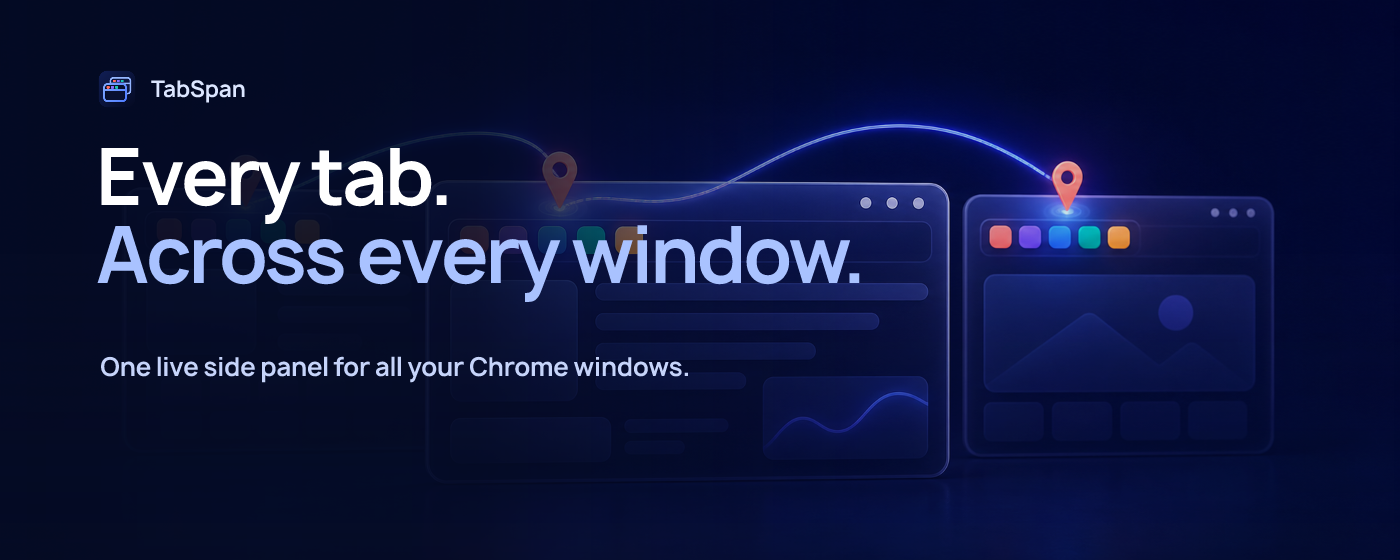
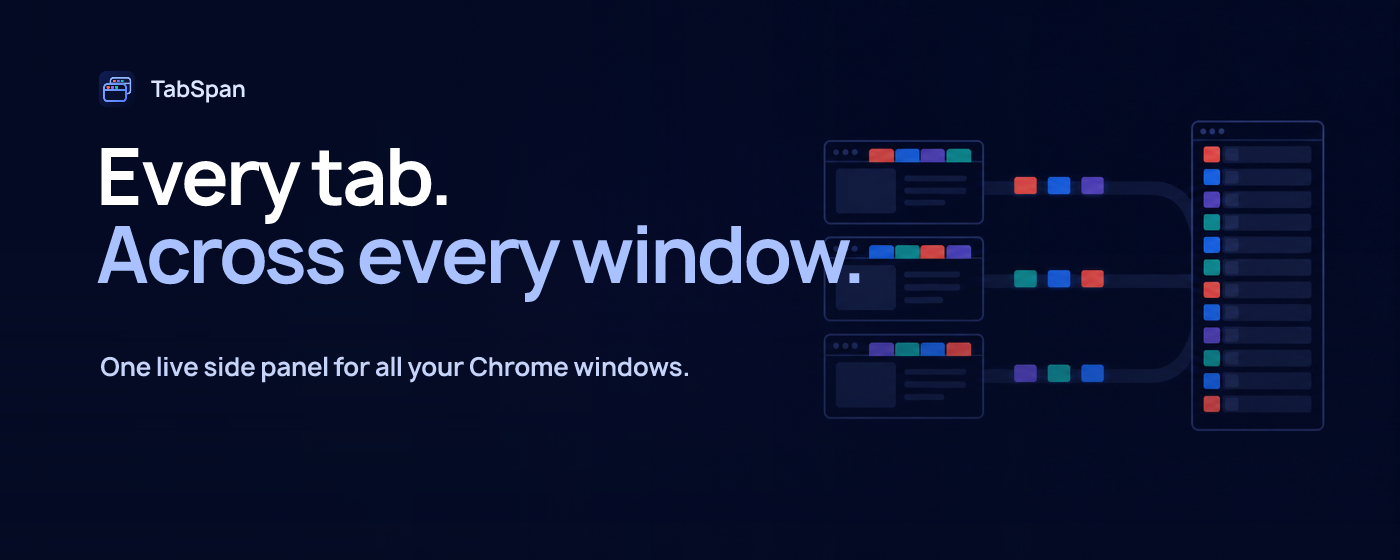
feat: refine TabSpan promotional artwork with a focused tab-flow system and dedicated marquee and small-tile compositions for clearer cross-window positioning

Changed region(s): [[0.3071, 0.1518, 0.9214, 1.0], [0.8907, 0.7589, 0.9214, 0.7893], [0.3379, 0.2125, 0.3686, 0.2429]]

diff --git a/store-listing/source/promo.html b/store-listing/source/promo.html
@@ -159,7 +159,12 @@
   </head>
   <body>
     <main class="artboard">
-      <img class="key-visual" src="../assets/source/connected-windows.png" alt="" />
+      <img
+        id="key-visual"
+        class="key-visual"
+        src="../assets/source/tab-flow-marquee-v2.png"
+        alt=""
+      />
       <div class="shade"></div>
       <section class="copy">
         <div class="brand">
@@ -174,6 +179,7 @@
       const format = new URLSearchParams(location.search).get("format");
       if (format === "small") {
         document.body.classList.add("small");
+        document.querySelector("#key-visual").src = "../assets/source/tab-flow-small.png";
       }
     </script>
   </body>

diff --git a/store-listing/ARTWORK.md b/store-listing/ARTWORK.md
@@ -4,11 +4,11 @@
 
 **Every tab. Across every window.**
 
-The visual system uses three connected browser windows to communicate one live view across a multi-window Chrome workspace. Repeated pinned-app tiles preserve the extension's distinctive synchronization capability without making it the entire product story. Deep indigo conveys focus and reliability; electric blue carries the connection across windows; coral adds a distinct focal point.
+The visual system uses orderly tab lanes to connect several browser windows with one unified side-panel view. The source windows remain visually secondary, while the side panel becomes the clear destination and communicates cross-window tab management at a glance. Deep indigo conveys focus and reliability; coral, violet, teal, and blue tab markers echo the extension icon.
 
 The redesigned icon combines two overlapping browser windows with the same coral, violet, and teal pinned tabs in each window. Repeated colors communicate that the pinned workspace stays consistent across windows without relying on a separate pin symbol. The 16 px source simplifies the window outlines and enlarges the colored tabs for Chrome's toolbar.
 
-Promotional copy uses the bundled Manrope family. The headline is deliberately limited to two lines, with more relaxed tracking and a blue second line to keep the cross-window promise readable at both Web Store sizes.
+Promotional copy uses the bundled Manrope family. The headline is deliberately limited to two lines, with more relaxed tracking and a blue second line to keep the cross-window promise readable at both Web Store sizes. The small tile uses a dedicated, simplified background rather than cropping the marquee artwork.
 
 ## Upload assets
 
@@ -46,8 +46,16 @@ The screenshots show the real extension UI with privacy-safe sample content.
 
 ## Source asset provenance
 
-The textless connected-window artwork was generated with OpenAI ImageGen for this repository. Prompt:
+The textless Tab Flow artwork was generated with OpenAI ImageGen for this repository. The marquee prompt was:
 
-> Create a premium textless key visual for a Chrome Web Store productivity extension named TabSpan. Wide advertising composition, designed to be cropped to both 1400x560 and 440x280. Show three simplified, elegant browser-window cards arranged in depth, connected as one coherent multi-window workspace. Each window may share the same small row of colorful pinned-tab dots or compact app tiles along the upper-left edge. A subtle glowing path connects the windows, communicating “every tab across every window.” Deep navy-to-indigo full-bleed background, electric blue and violet highlights, one restrained coral accent, soft glass panels, crisp modern editorial 3D/flat hybrid, premium and trustworthy, high contrast, uncluttered. Keep the important connected-window motif centered and safe within the middle 60% of the canvas. No people. No readable text. No letters. No logos. No Google or Chrome branding. No real company icons. No watermark. No fake detailed UI, just abstract browser frames and tab symbols. Avoid excessive glow, gradients that reduce contrast, tiny details, and visual clutter.
+> Deeply refine the Tab Flow direction into a premium 1400x560 Chrome Web Store marquee background. Keep three compact source browser windows stacked vertically, three orderly tab-data lanes, and one tall unified side-panel view at the far right. Reduce floating cards, use crisp and consistent geometry, and leave the left 55% completely calm for typography. Use near-black navy, deep indigo, periwinkle outlines, and restrained coral, violet, teal, and blue tab accents. Background artwork only: no text, logo, people, real browser branding, readable UI, map pins, watermark, clutter, crossing lanes, or bright objects in the copy zone.
+
+The final marquee placement refinement was:
+
+> Uniformly scale the three source windows, three connecting tab lanes, and unified right-side panel down by approximately 12%, then move the entire grouped system to the right so no visible object begins before 58% of the canvas width. Preserve the exact background, illustration style, colors, geometry, hierarchy, lane paths, shadows, and sharpness. Keep generous right padding and do not crop or distort the side panel. Add no text, logo, new objects, glow, map pins, or watermark.
+
+The small-tile prompt was:
+
+> Create a compact 440x280 companion to the Tab Flow direction. Show two abstract browser windows in the lower-left and lower-center feeding two clean connection lanes into one simplified vertical side-panel card at the lower-right. Keep the top 58% calm for typography and place the complete visual story in the bottom 42%. Use fewer, larger shapes, consistent rounded geometry, deep navy and indigo surfaces, periwinkle outlines, and coral, violet, teal, and blue tab accents. Background artwork only: no text, logo, people, browser branding, readable UI, map pins, watermark, tiny cards, dense dashboards, or bright detail behind the copy zone.
 
 Manrope is distributed under the SIL Open Font License 1.1. The font license is preserved alongside the checked-in font files.
